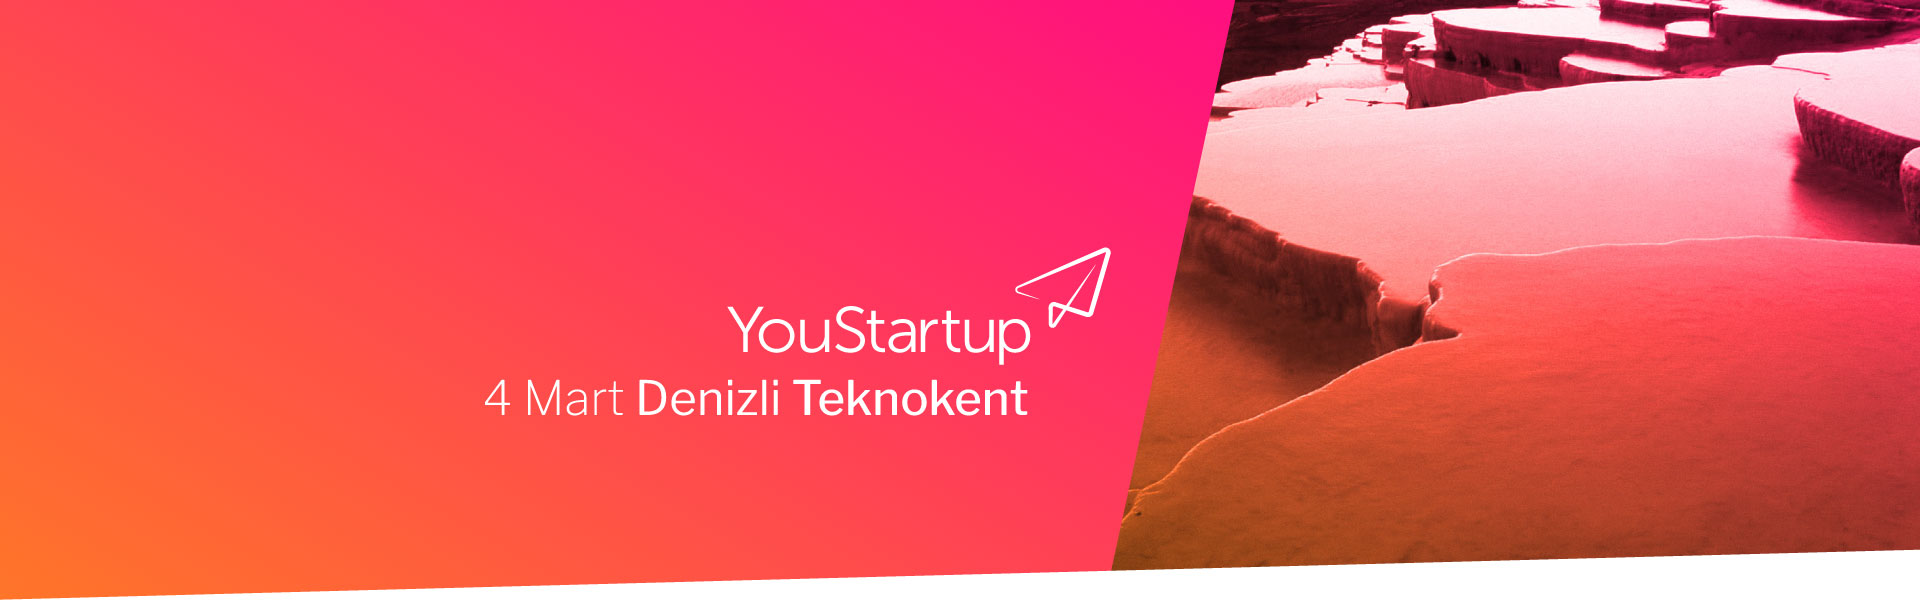
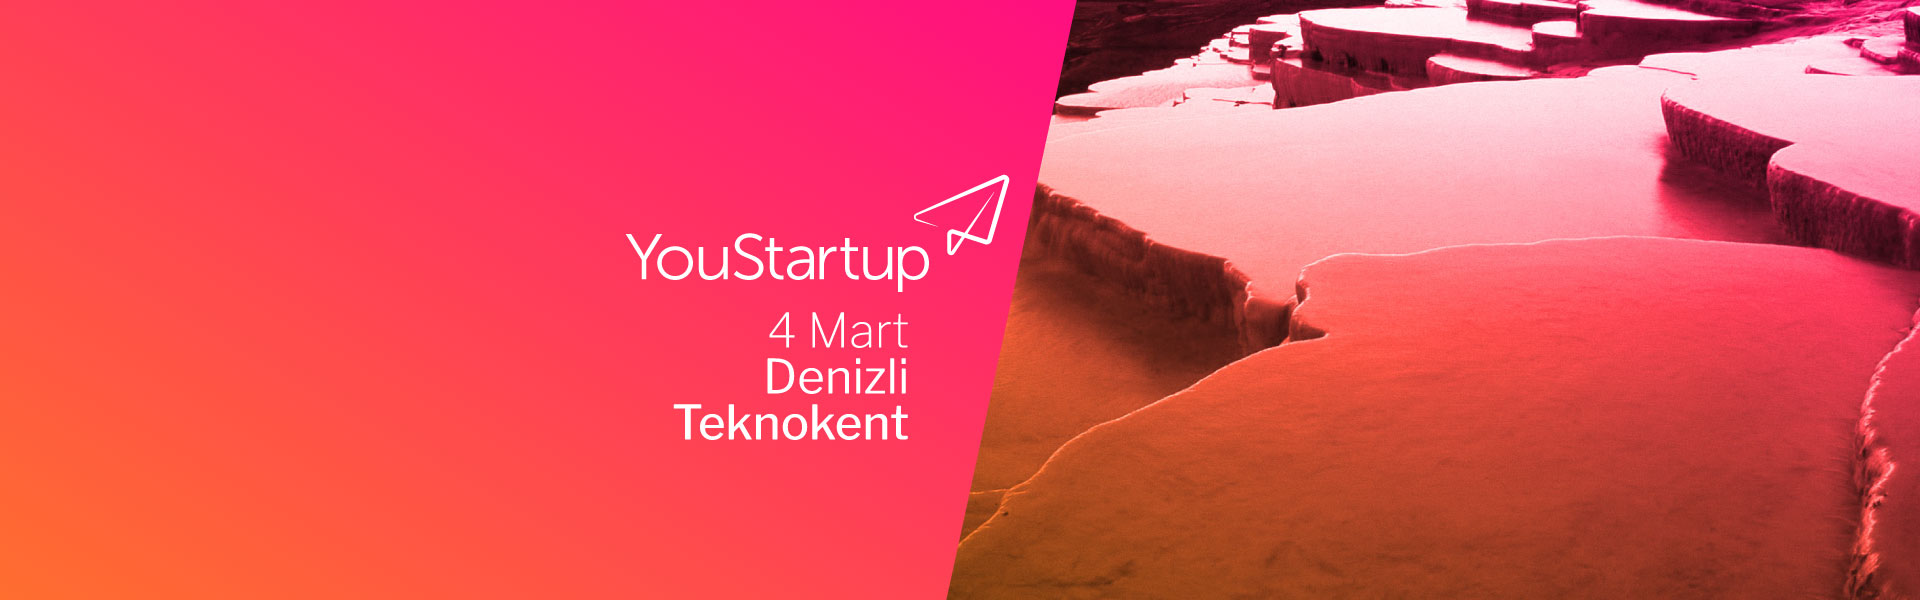
var. changes

Changed region(s): [[0.0, 0.0, 1.0, 1.0]]

diff --git a/2017denizli/index.html b/2017denizli/index.html
@@ -39,6 +39,7 @@
                 <li><a href="#katilimcilar">Katılımcılar</a></li>
                 <li><a href="#program">Program</a></li>
                 <li><a href="#iletisim">Kaydol</a></li>
+                <li><a href="#organizasyon">Organizasyon</a></li>
             </ul>
         </div>
     </div>
@@ -65,7 +66,7 @@
 </div>
 
 <div class="container-fluid -paddingFix -about">
-  <div class="container">
+  <div class="container -ptA">
     <article class="row">
       <div class="col-md-7 col-xs-12 col-md-offset-1">
         <h2>Denizli'li Girişimciler, Startuplarını hızlandıracak destekler için yarışıyor.</h2>
@@ -88,9 +89,13 @@
           <!-- </p> -->
             <h4>Örnekteki sunum ile katılım formunu doldurarak siz de YouStartup Denizli'de yer alın.</h4>
           <!-- <h3><a href="mailto:hi@youstartup.co">hi@youstartup.co</a></h3> -->
-          <a class="btn btn-lg -formButton" href="form.html" role="button">Katılım Formu</a>
-          <a class="btn btn-lg" role="button" target="_blank" href="yatirimci-sunumu-template-turkce.zip">Örnek Pitch Deck
-          </a>
+          <p><a class="btn btn-lg -formButton" href="form.html" role="button">Katılım Formu</a></p>
+          <p>
+          <a class="btn" role="button" target="_blank" href="yatirimci-sunumu-template-turkce.zip">Örnek Pitch Deck
+          </a></p>
+          <p>
+            <small>Son Katılım Tarihi 25.02.2017</small>
+          </p>
         </div>
     </div>
   </div>
@@ -269,6 +274,29 @@
                 </div>
             </form>
         </div>
+    </div>
+  </div>
+</div>
+
+<div id="organizasyon" class="anchor"></div>
+<div class="container-fluid -paddingFix ">
+  <div class="container">
+    <div class="row">
+      <h2 class="col-md-11 col-xs-12 col-md-offset-1">Organizasyon</h2>
+
+      <div class="col-md-3 col-sm-6 col-xs-12">
+        <img src="organization/youstartup.png" alt="" class="img-responsive center-block">
+      </div>
+      <div class="col-md-3 col-sm-6 col-xs-12">
+        <img src="organization/teknokent.png" alt="" class="img-responsive center-block">
+      </div>
+      <div class="col-md-3 col-sm-6 col-xs-12">
+        <img src="organization/pau.png" alt="" class="img-responsive center-block">
+      </div>
+      <div class="col-md-3 col-sm-6 col-xs-12">
+        <!-- <img src="organization/.png" alt="" class="img-responsive center-block"> -->
+      </div>
+
     </div>
   </div>
 </div>

diff --git a/css/custom.scss b/css/custom.scss
@@ -237,16 +237,17 @@ nav{
 //   overflow: hidden;
 // }
 .jumbotronDenizli{
-  @include breakpoint(xs) { min-height: 250px; background-position: -180px top; }
-  @include breakpoint(sm) { min-height: 400px; background-position: left center; }
+  @include breakpoint(xs) { height: 250px; }
+  // @include breakpoint(xs) { height: 250px; background-position: -180px top; background-size: cover; }
+  // @include breakpoint(sm) { height: 330px; background-size: cover; }
   padding:0px;
   margin-bottom:0px;
   // min-height: 250px;
   background-image: url(/2017denizli/hero.jpg);
-  background-position: center center;
+  background-position: top center;
   background-repeat: no-repeat;
   background-size: cover;
-  max-height: 600px;
+  height: 500px;
   background-color: white;
 }
 .jumbotron{
@@ -312,3 +313,5 @@ footer{
   background-color: white !important;
   color: #ff6932 !important;
 }
+.-h500{ height:500px; }
+.-ptA{ padding-top:150px; }

diff --git a/2017denizli/form.html b/2017denizli/form.html
@@ -35,10 +35,11 @@
         <div class="collapse navbar-collapse navbar-right" id="collapse">
             <ul class="nav navbar-nav ">
                 <li><a href="http://www.youstartup.co">Ana sayfa</a></li>
-                <li><a href="#pitchdeck">Pitch deck</a></li>
-                <li><a href="#katilimcilar">Katılımcılar</a></li>
-                <li><a href="#program">Program</a></li>
-                <li><a href="#iletisim">İletişim</a></li>
+                <li><a href="index.html#pitchdeck">Başvuru</a></li>
+                <li><a href="index.html#katilimcilar">Katılımcılar</a></li>
+                <li><a href="index.html#program">Program</a></li>
+                <li><a href="index.html#iletisim">Kaydol</a></li>
+                <li><a href="index.html#organizasyon">Organizasyon</a></li>
             </ul>
         </div>
     </div>

diff --git a/css/custom.css b/css/custom.css
@@ -128,19 +128,14 @@ nav li a {
   padding: 0px;
   margin-bottom: 0px;
   background-image: url(/2017denizli/hero.jpg);
-  background-position: center center;
+  background-position: top center;
   background-repeat: no-repeat;
   background-size: cover;
-  max-height: 600px;
+  height: 500px;
   background-color: white; }
   @media (max-width: 767px) {
     .jumbotronDenizli {
-      min-height: 250px;
-      background-position: -180px top; } }
-  @media (min-width: 768px) {
-    .jumbotronDenizli {
-      min-height: 400px;
-      background-position: left center; } }
+      height: 250px; } }
 
 .jumbotron {
   padding: 0px;
@@ -214,3 +209,9 @@ footer a:hover {
 .-formButton {
   background-color: white !important;
   color: #ff6932 !important; }
+
+.-h500 {
+  height: 500px; }
+
+.-ptA {
+  padding-top: 150px; }
